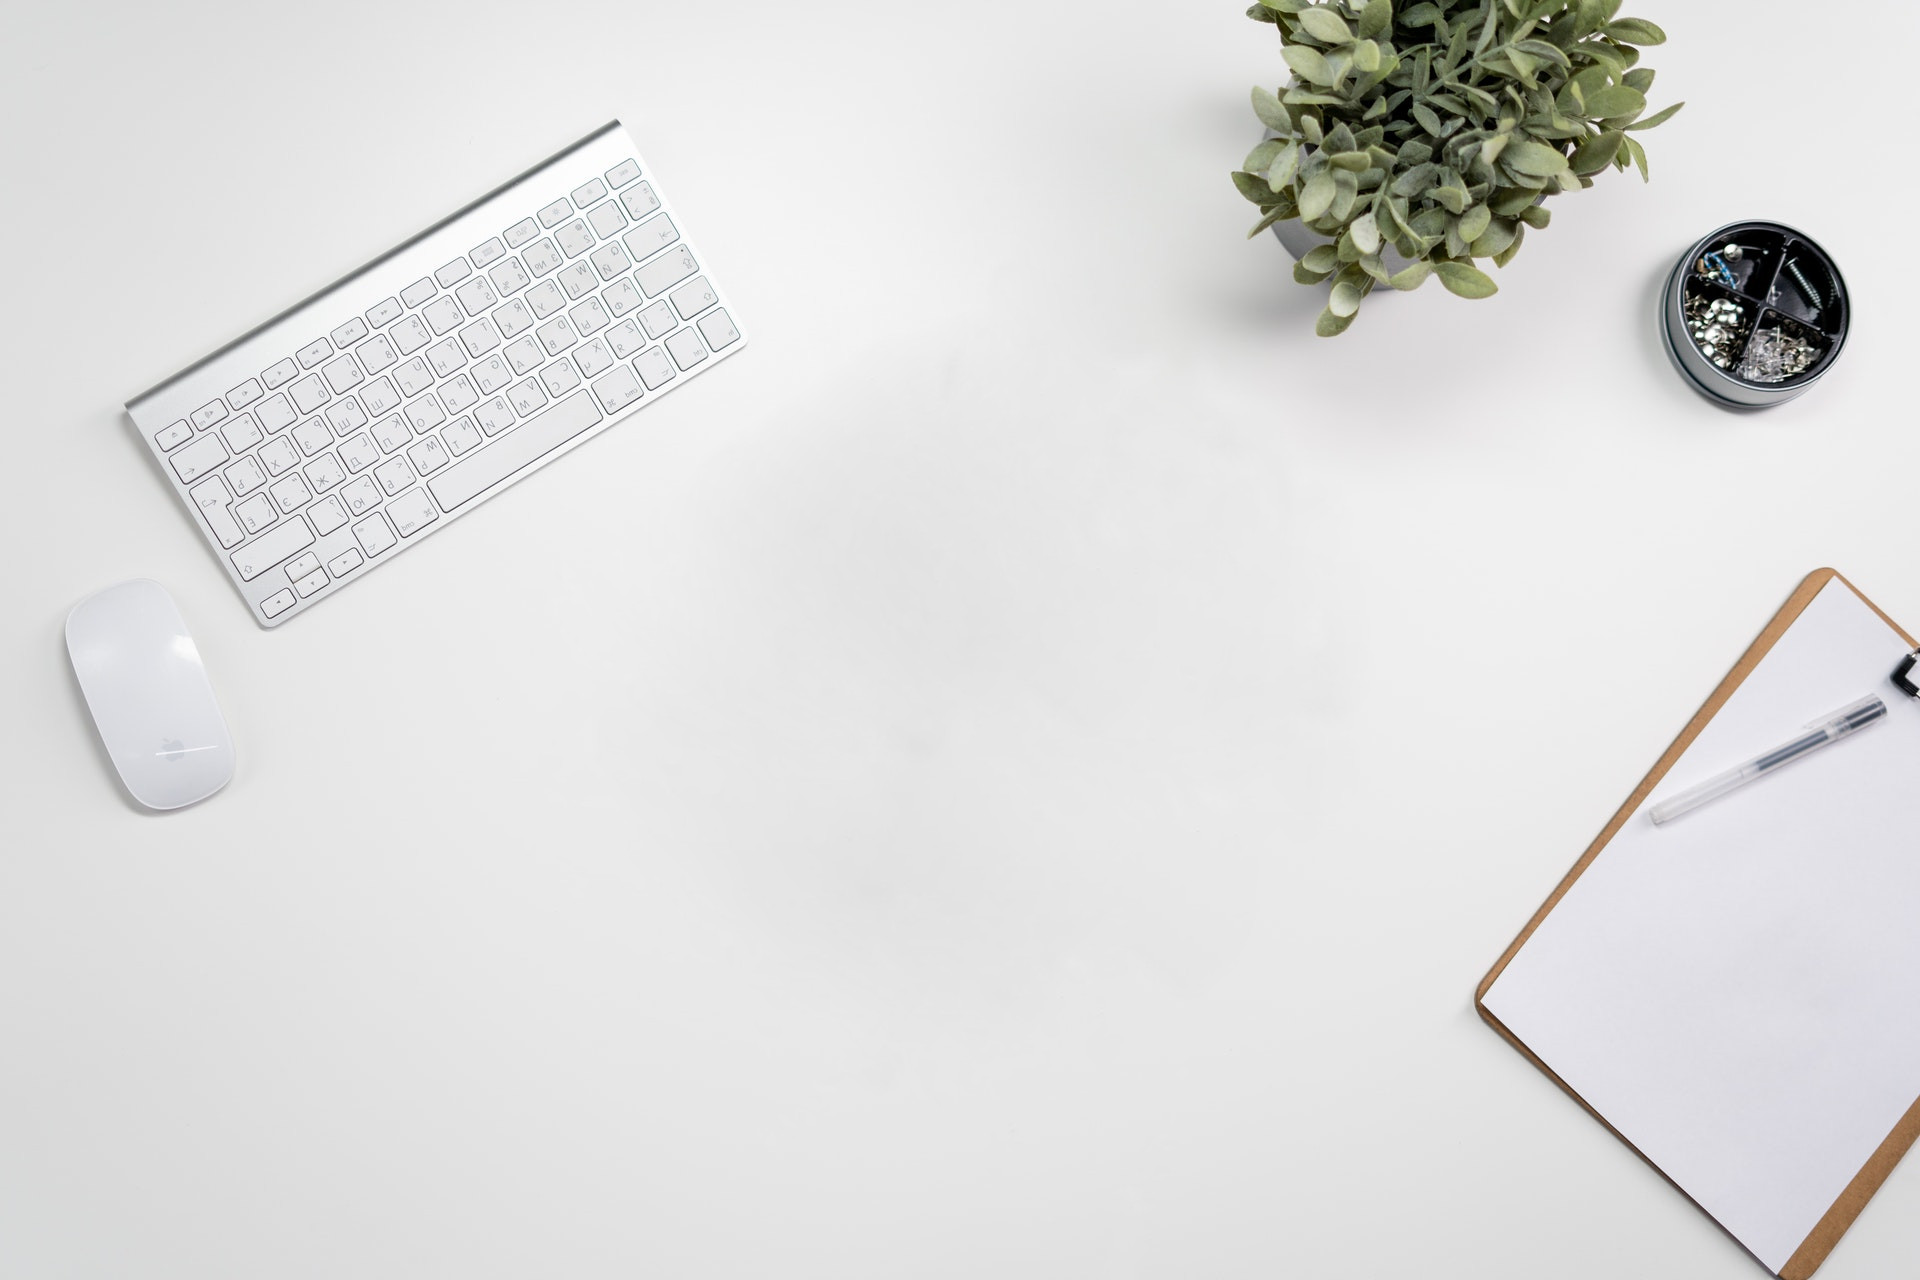
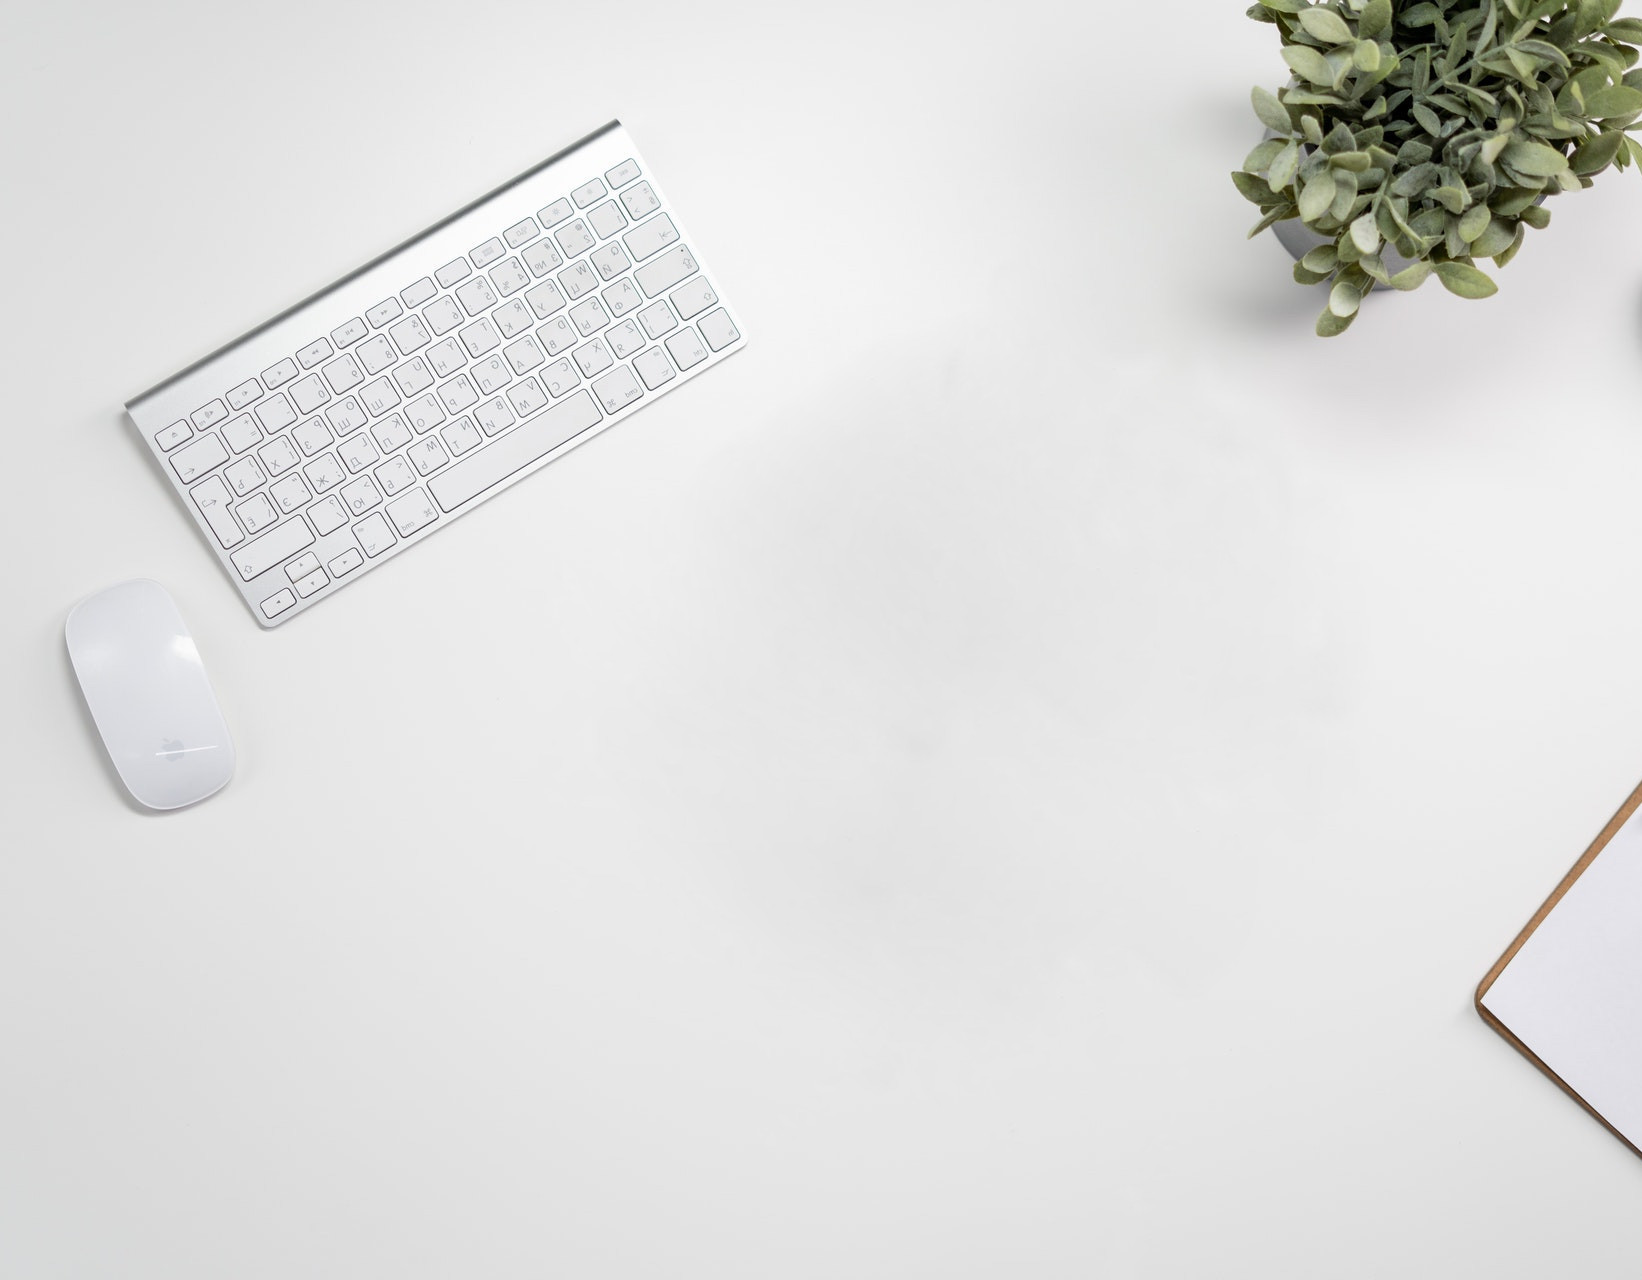
background edits

diff --git a/css/styles.css b/css/styles.css
@@ -23,7 +23,7 @@ body {
   margin: 0px;
 }
 a {
-  color: #849AC1;
+  color: #9EAE70;
   display: inline-block;
   font-weight: bolder;
 }
@@ -35,7 +35,7 @@ a:hover {
 }
 h1 {
   margin: 0;
-  color: #849AC1;
+  color: #484847;
   letter-spacing: 2px;
   font-size: 60px;
   line-height: 65px;
@@ -77,7 +77,7 @@ header {
   background-color: #E8E8EA;
   background-image: url(../images/desk.jpg);
   background-repeat: no-repeat;
-  background-position: top, middle;
+  background-position: top, left;
   background-size: cover;
 }
 header .content-wrap {
@@ -100,20 +100,18 @@ header .content-wrap {
 /* Work Experience
 --------------------------------------------- */
 .work-experience {
-  background: #E4E9F1;
+  background: #DCE1CB;
 }
 /* Education
 --------------------------------------------- */
 #mcmaster {
   border-radius: 50%;
+  /* display: flex;
+  align-items: right; */
+  /* vertical-align: center; */
   float: right;
   width: 25%;
   opacity: 80%;
-  top: 0;
-  bottom: 0;
-  left: 0;
-  right: 0;
-  /* margin: auto; */
 }
 
 /* Contact Info

diff --git a/index.html b/index.html
@@ -57,7 +57,8 @@
 
           <!-- Copy this whole <section> block to add more schools. -->
           <section>
-            <img src= "images/McMaster.png" id= "mcmaster" alt= "McMaster University"></img>
+            <img src= "images/McMaster.png" id= "mcmaster" alt= "McMaster University">
+            </img>
             <h3>McMaster University</h3>
             <p>Candidate for HBSc, Biochemistry, 2024</p>
             <p>Summary or accomplishments.</p>
